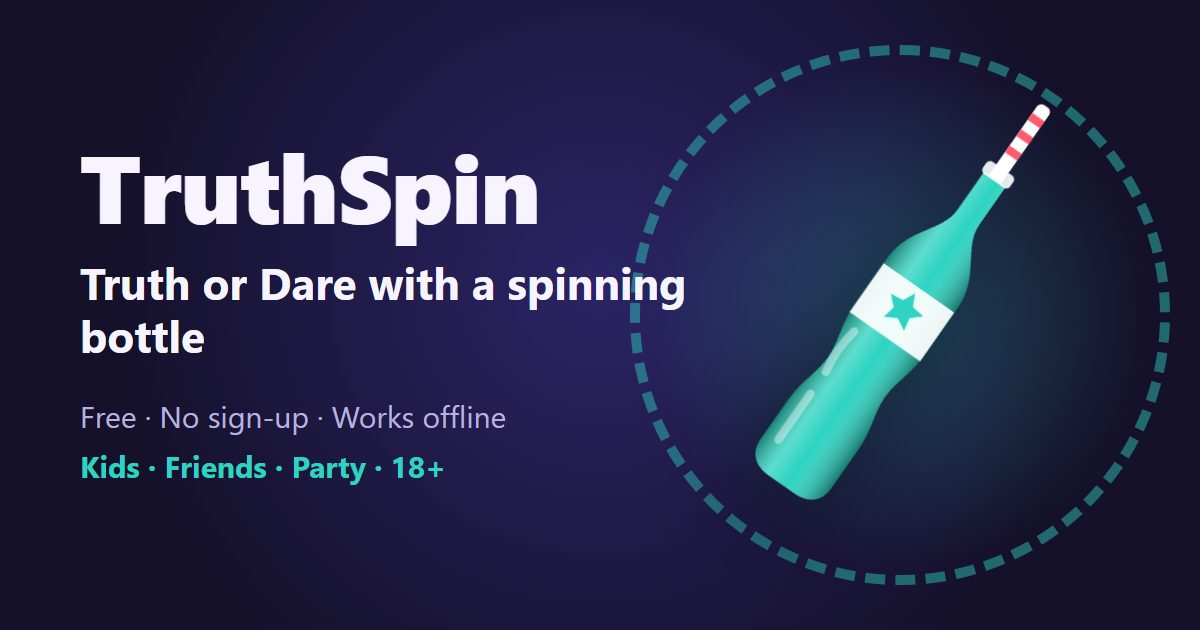
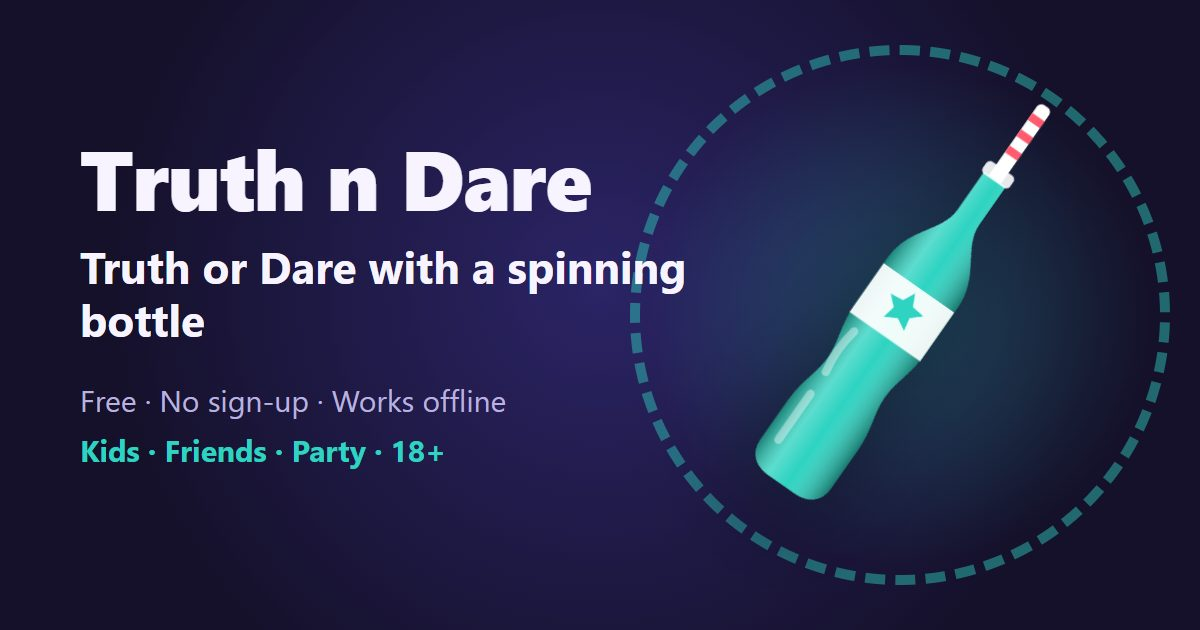
Rename the site from TruthSpin to Truth n Dare
The name now matches the address truthndare.in: tab title, Google site
name and preview image, phone app name, game text in English and
Hinglish, question pages, privacy and admin pages. Hidden storage ids
stay "truthspin" so saved data and backups keep working.

Changed region(s): [[0.0617, 0.2413, 0.5858, 0.573], [0.0617, 0.6032, 0.4317, 0.7841]]

diff --git a/src/strings.js b/src/strings.js
@@ -30,8 +30,8 @@ const en = {
   pickedName: '{name} was picked',
   switchedToFriends: 'The level is now Friends (13+).',
   loadFailed: 'Could not load the questions. Check your internet and try again.',
-  tipInstall: 'Add TruthSpin to your home screen to play offline',
-  tipFeedback: 'Enjoying TruthSpin? Tell us what to add',
+  tipInstall: 'Add Truth n Dare to your home screen to play offline',
+  tipFeedback: 'Enjoying Truth n Dare? Tell us what to add',
 
   // Card
   done: 'Done',
@@ -184,7 +184,7 @@ const en = {
   invite: 'Invite friends on WhatsApp',
   installApp: 'Get the app (phone or computer)',
   getAppShort: 'Get app',
-  getAppTitle: 'Get the TruthSpin app: free',
+  getAppTitle: 'Get the Truth n Dare app: free',
   getAppLead: 'Open it straight from your home screen or desktop, full screen. It works offline and takes less than 1 MB. No app store needed.',
   installNow: 'Install now',
   installOn_ios: 'On iPhone or iPad',
@@ -194,16 +194,16 @@ const en = {
   installOn_firefox: 'In Firefox',
   installIos1: 'Tap the Share button (the square with an arrow pointing up).',
   installIos2: 'Scroll down and tap “Add to Home Screen”.',
-  installIos3: 'Tap “Add”. TruthSpin now opens from your home screen like an app.',
+  installIos3: 'Tap “Add”. Truth n Dare now opens from your home screen like an app.',
   installAndroid1: 'Tap the ⋮ menu at the top right of Chrome.',
   installAndroid2: 'Tap “Install app” or “Add to Home screen”, then “Install”.',
   installDesktop1: 'In Chrome or Edge, click the install icon at the right end of the address bar.',
-  installDesktop2: 'Or open the ⋮ menu and choose “Install TruthSpin” (Chrome) or “Apps → Install this site as an app” (Edge).',
+  installDesktop2: 'Or open the ⋮ menu and choose “Install Truth n Dare” (Chrome) or “Apps → Install this site as an app” (Edge).',
   'installMacSafari1': 'In Safari, open the File menu and choose “Add to Dock”.',
   installFirefox1: 'Firefox cannot install apps. Open this page in Chrome or Edge, then install it there.',
   installOther: 'Other devices',
   getAppNote: 'The app updates by itself. You can remove it like any other app.',
-  installedToast: 'Installed! Open TruthSpin from your home screen or desktop.',
+  installedToast: 'Installed! Open Truth n Dare from your home screen or desktop.',
   resetSeen: 'Reset seen questions',
   resetTitle: 'Start all questions fresh?',
   resetLead: 'Cards you have already seen can come up again.',
@@ -230,7 +230,7 @@ const en = {
   iosTitle: 'Add to Home Screen',
   ios1: 'Tap the Share button in Safari.',
   ios2: 'Choose “Add to Home Screen”.',
-  ios3: 'Open TruthSpin from your home screen. It works offline too.',
+  ios3: 'Open Truth n Dare from your home screen. It works offline too.',
 
   // Own questions
   addQuestion: 'Add your own question',
@@ -267,7 +267,7 @@ const en = {
   restorePaste: 'Paste your backup code here',
   restoreLead: 'Paste a backup code or choose a backup file.',
   chooseFile: 'Choose file',
-  restoreBad: 'That does not look like a TruthSpin backup.',
+  restoreBad: 'That does not look like a Truth n Dare backup.',
   restored: '{n} questions added.',
   shareOwnMsg: 'Here are {n} questions for our Truth or Dare game. Open to add them: {url}',
   importNone: 'These questions are for levels that are hidden on this phone.',
@@ -276,7 +276,7 @@ const en = {
   importAdd: 'Add {n} questions',
 
   // Feedback and reports
-  fbLead: 'How do you like TruthSpin? Tell us what to add or fix.',
+  fbLead: 'How do you like Truth n Dare? Tell us what to add or fix.',
   fbMood: 'Your rating',
   mood1: 'Not good',
   mood2: 'Okay',
@@ -339,8 +339,8 @@ const hi = {
   pickedName: '{name} ki baari',
   switchedToFriends: 'Level ab Friends (13+) hai.',
   loadFailed: 'Sawaal load nahi hue. Internet check karke phir try kariye.',
-  tipInstall: 'TruthSpin ko home screen par lagaiye, offline bhi chalega',
-  tipFeedback: 'TruthSpin pasand aa raha hai? Batayiye kya add karein',
+  tipInstall: 'Truth n Dare ko home screen par lagaiye, offline bhi chalega',
+  tipFeedback: 'Truth n Dare pasand aa raha hai? Batayiye kya add karein',
 
   done: 'Ho gaya',
   skip: 'Skip',
@@ -466,7 +466,7 @@ const hi = {
   invite: 'WhatsApp par dosto ko bulaiye',
   installApp: 'App lijiye (phone ya computer)',
   getAppShort: 'App lo',
-  getAppTitle: 'TruthSpin app lijiye: free',
+  getAppTitle: 'Truth n Dare app lijiye: free',
   getAppLead: 'Seedha home screen ya desktop se full screen kholiye. Offline bhi chalta hai aur 1 MB se kam jagah leta hai. App store ki zaroorat nahi.',
   installNow: 'Abhi install kariye',
   installOn_ios: 'iPhone ya iPad par',
@@ -476,16 +476,16 @@ const hi = {
   installOn_firefox: 'Firefox mein',
   installIos1: 'Share button dabaiye (upar teer wala square).',
   installIos2: 'Neeche scroll karke “Add to Home Screen” dabaiye.',
-  installIos3: '“Add” dabaiye. Ab TruthSpin home screen se app ki tarah khulega.',
+  installIos3: '“Add” dabaiye. Ab Truth n Dare home screen se app ki tarah khulega.',
   installAndroid1: 'Chrome mein upar daayein ⋮ menu dabaiye.',
   installAndroid2: '“Install app” ya “Add to Home screen” dabaiye, phir “Install”.',
   installDesktop1: 'Chrome ya Edge mein address bar ke daayein kone par install icon dabaiye.',
-  installDesktop2: 'Ya ⋮ menu kholkar “Install TruthSpin” (Chrome) ya “Apps → Install this site as an app” (Edge) chuniye.',
+  installDesktop2: 'Ya ⋮ menu kholkar “Install Truth n Dare” (Chrome) ya “Apps → Install this site as an app” (Edge) chuniye.',
   'installMacSafari1': 'Safari mein File menu kholkar “Add to Dock” chuniye.',
   installFirefox1: 'Firefox apps install nahi kar sakta. Yeh page Chrome ya Edge mein kholkar wahan install kariye.',
   installOther: 'Doosre devices',
   getAppNote: 'App apne aap update hota hai. Ise kisi bhi app ki tarah hata sakte hain.',
-  installedToast: 'Install ho gaya! TruthSpin ko home screen ya desktop se kholiye.',
+  installedToast: 'Install ho gaya! Truth n Dare ko home screen ya desktop se kholiye.',
   resetSeen: 'Dekhe hue sawaal reset',
   resetTitle: 'Saare sawaal phir se shuru karein?',
   resetLead: 'Pehle dekhe hue cards phir se aa sakte hain.',
@@ -507,7 +507,7 @@ const hi = {
   iosTitle: 'Home Screen par lagaiye',
   ios1: 'Safari mein Share button dabaiye.',
   ios2: '“Add to Home Screen” chuniye.',
-  ios3: 'Home screen se TruthSpin kholiye. Offline bhi chalega.',
+  ios3: 'Home screen se Truth n Dare kholiye. Offline bhi chalega.',
 
   addQuestion: 'Apna sawaal jodiye',
   editQuestion: 'Sawaal badliye',
@@ -539,7 +539,7 @@ const hi = {
   restorePaste: 'Backup code yahan paste kariye',
   restoreLead: 'Backup code paste kariye ya backup file chuniye.',
   chooseFile: 'File chuniye',
-  restoreBad: 'Yeh TruthSpin backup nahi lag raha.',
+  restoreBad: 'Yeh Truth n Dare backup nahi lag raha.',
   restored: '{n} sawaal jud gaye.',
   shareOwnMsg: 'Hamare Truth or Dare game ke liye {n} sawaal. Jodne ke liye kholiye: {url}',
   importNone: 'Yeh sawaal un levels ke hain jo is phone par chhupe hain.',
@@ -547,7 +547,7 @@ const hi = {
   importLead: 'Jodne se pehle dekh lijiye. Yeh sirf is phone par save honge.',
   importAdd: '{n} sawaal jodiye',
 
-  fbLead: 'TruthSpin kaisa laga? Batayiye kya add ya theek karein.',
+  fbLead: 'Truth n Dare kaisa laga? Batayiye kya add ya theek karein.',
   fbMood: 'Aapki rating',
   mood1: 'Achha nahi',
   mood2: 'Theek hai',

diff --git a/index.html b/index.html
@@ -3,7 +3,7 @@
 <head>
   <meta charset="utf-8">
   <meta name="viewport" content="width=device-width, initial-scale=1, viewport-fit=cover, interactive-widget=resizes-content">
-  <title>Truth and Dare Game Online with Spin the Bottle | TruthSpin</title>
+  <title>Truth and Dare Game Online with Spin the Bottle | Truth n Dare</title>
   <meta name="description" content="Play truth and dare free online with a spinning bottle. 800+ questions for friends, family, couples and parties, in English and Hinglish. No sign-up, works offline.">
   <meta name="author" content="Rohit Singh">
   <meta name="theme-color" content="#15112b">
@@ -14,8 +14,8 @@
   <link rel="icon" href="/favicon-48.png" sizes="48x48" type="image/png">
   <link rel="apple-touch-icon" href="/apple-touch-icon.png">
   <meta property="og:type" content="website">
-  <meta property="og:site_name" content="TruthSpin">
-  <meta property="og:title" content="TruthSpin: Truth and Dare with a spinning bottle">
+  <meta property="og:site_name" content="Truth n Dare">
+  <meta property="og:title" content="Truth n Dare: free truth or dare with a spinning bottle">
   <meta property="og:description" content="Spin the bottle, pick truth or dare. Free, no sign-up, works offline.">
   <meta property="og:url" content="%VITE_SITE_URL%/">
   <meta property="og:image" content="%VITE_SITE_URL%/og.jpg">
@@ -23,12 +23,12 @@
   <meta property="og:image:height" content="630">
   <meta name="twitter:card" content="summary_large_image">
   <meta name="mobile-web-app-capable" content="yes">
-  <meta name="apple-mobile-web-app-title" content="TruthSpin">
+  <meta name="apple-mobile-web-app-title" content="Truth n Dare">
   <script type="application/ld+json">
-  {"@context":"https://schema.org","@type":"WebApplication","name":"TruthSpin","alternateName":["Truth and Dare","Truth or Dare: Spin the Bottle"],"url":"%VITE_SITE_URL%/","applicationCategory":"GameApplication","operatingSystem":"Any","offers":{"@type":"Offer","price":"0","priceCurrency":"INR"},"inLanguage":["en","hi-Latn"],"author":{"@type":"Person","name":"Rohit Singh"},"description":"Truth and dare with a spinning bottle. Free, no sign-up, works offline."}
+  {"@context":"https://schema.org","@type":"WebApplication","name":"Truth n Dare","alternateName":["truthndare.in","Truth and Dare","Truth or Dare: Spin the Bottle"],"url":"%VITE_SITE_URL%/","applicationCategory":"GameApplication","operatingSystem":"Any","offers":{"@type":"Offer","price":"0","priceCurrency":"INR"},"inLanguage":["en","hi-Latn"],"author":{"@type":"Person","name":"Rohit Singh"},"description":"Truth and dare with a spinning bottle. Free, no sign-up, works offline."}
   </script>
   <script type="application/ld+json">
-  {"@context":"https://schema.org","@type":"WebSite","name":"TruthSpin","alternateName":["Truth n Dare","Truth and Dare"],"url":"%VITE_SITE_URL%/"}
+  {"@context":"https://schema.org","@type":"WebSite","name":"Truth n Dare","alternateName":["truthndare.in","TruthnDare","Truth and Dare"],"url":"%VITE_SITE_URL%/"}
   </script>
 </head>
 <body data-phase="idle">
@@ -195,7 +195,7 @@
     </div>
   </dialog>
 
-  <noscript><p class="noscript">TruthSpin needs JavaScript to spin the bottle. Please turn it on in your browser.</p></noscript>
+  <noscript><p class="noscript">Truth n Dare needs JavaScript to spin the bottle. Please turn it on in your browser.</p></noscript>
   <script type="module" src="/src/main.js"></script>
 </body>
 </html>

diff --git a/privacy.html b/privacy.html
@@ -3,8 +3,8 @@
 <head>
   <meta charset="utf-8">
   <meta name="viewport" content="width=device-width, initial-scale=1">
-  <title>Privacy · TruthSpin</title>
-  <meta name="description" content="TruthSpin privacy: no account, no ads, nothing personal collected.">
+  <title>Privacy · Truth n Dare</title>
+  <meta name="description" content="Truth n Dare privacy: no account, no ads, nothing personal collected.">
   <meta name="theme-color" content="#15112b">
   <link rel="icon" href="/favicon.svg" type="image/svg+xml">
   <style>
@@ -23,10 +23,10 @@
 <body>
   <main>
     <a class="back" href="/">← Back to the game</a>
-    <h1>Privacy at TruthSpin</h1>
+    <h1>Privacy at Truth n Dare</h1>
     <p class="muted">Last updated: 21 October 2026</p>
 
-    <p>TruthSpin is a free Truth or Dare game. You can play without an account, and we never ask for your name, email, phone number or birth date. There are no ads and no tracking cookies.</p>
+    <p>Truth n Dare is a free Truth or Dare game. You can play without an account, and we never ask for your name, email, phone number or birth date. There are no ads and no tracking cookies.</p>
 
     <h2>What stays on your phone</h2>
     <p>These are saved only in your browser on this phone, and never sent to us:</p>
@@ -59,7 +59,7 @@
 
     <h2>Contact</h2>
     <p>Have a question, an idea or a privacy concern? Write to us at <a href="mailto:codewithrohitsingh@gmail.com">codewithrohitsingh@gmail.com</a>. We read every message.</p>
-    <p class="muted">TruthSpin is developed by Rohit Singh.</p>
+    <p class="muted">Truth n Dare is developed by Rohit Singh.</p>
     <p class="muted">Question lists: <a href="/truth-and-dare-questions/">Truth and dare questions</a> · <a href="/truth-and-dare-questions-for-friends/">For friends</a> · <a href="/truth-and-dare-questions-for-couples/">For couples</a> · <a href="/truth-and-dare-for-kids/">For kids</a> · <a href="/truth-and-dare-questions-in-hindi/">In Hindi</a> · <a href="/spin-the-bottle-game/">Spin the bottle</a> · <a href="/never-have-i-ever-questions/">Never have I ever</a> · <a href="/would-you-rather-questions/">Would you rather</a></p>
   </main>
 </body>

diff --git a/server/admin.js b/server/admin.js
@@ -49,7 +49,7 @@ const HEADERS = {
 function page(title, active, body) {
   const tab = (href, label) => `<a href="${href}"${active === href ? ' class="on"' : ''}>${label}</a>`;
   return new Response(`<!doctype html><html lang="en"><head><meta charset="utf-8">
-<meta name="viewport" content="width=device-width, initial-scale=1"><title>${esc(title)} · TruthSpin admin</title>
+<meta name="viewport" content="width=device-width, initial-scale=1"><title>${esc(title)} · Truth n Dare admin</title>
 <style>
 body{margin:0;font:16px/1.5 system-ui,sans-serif;background:#f6f3ff;color:#1b1638}
 main{max-width:900px;margin:0 auto;padding:16px}
@@ -246,7 +246,7 @@ async function cleanUp(store, now) {
 export async function handleAdmin(request, { store, env = {}, loadCards, now = new Date() }) {
   if (!env.ADMIN_PASSWORD) return new Response('Set ADMIN_PASSWORD in Netlify (Site configuration > Environment variables) first.', { status: 503 });
   if (!authorised(request, env.ADMIN_PASSWORD, env.ADMIN_USER)) {
-    return new Response('Password needed', { status: 401, headers: { 'www-authenticate': 'Basic realm="TruthSpin admin", charset="UTF-8"', 'cache-control': 'no-store' } });
+    return new Response('Password needed', { status: 401, headers: { 'www-authenticate': 'Basic realm="Truth n Dare admin", charset="UTF-8"', 'cache-control': 'no-store' } });
   }
   const url = new URL(request.url);
   const path = url.pathname.replace(/^\/admin\/?/, '').replace(/\/$/, '');

diff --git a/src/share.js b/src/share.js
@@ -67,7 +67,7 @@ export async function shareCard(card, levelKey, typeLabel) {
 
     ctx.fillStyle = '#ffffff';
     ctx.font = `800 52px ${font}`;
-    ctx.fillText('TruthSpin', 80, 130);
+    ctx.fillText('Truth n Dare', 80, 130);
     ctx.font = `600 34px ${font}`;
     ctx.fillStyle = lvl.color;
     ctx.fillText(`${t(`level_${levelKey}`)} · ${lvl.age === 'all' ? t('allAges') : lvl.age}`, 80, 185);
@@ -118,7 +118,7 @@ export async function shareCard(card, levelKey, typeLabel) {
     ctx.fillText(location.host, qx + cell * n + 50, qy + 120);
 
     const blob = await new Promise((r) => canvas.toBlob(r, 'image/png'));
-    const file = new File([blob], 'truthspin-card.png', { type: 'image/png' });
+    const file = new File([blob], 'truthndare-card.png', { type: 'image/png' });
     track('share-card');
     if (navigator.canShare?.({ files: [file] })) {
       await navigator.share({ files: [file], text: `${t('shareCardText')} ${link}` });

diff --git a/src/sheets.js b/src/sheets.js
@@ -229,7 +229,7 @@ export function settingsSheet(app) {
           h('a', { class: 'btn', href: '/privacy.html' }, icon('lock'), t('privacy')),
         ),
       ),
-      h('p', { class: 'fine center credit' }, `TruthSpin ${CONFIG.version} · ${t('developedBy')}`),
+      h('p', { class: 'fine center credit' }, `Truth n Dare ${CONFIG.version} · ${t('developedBy')}`),
     );
   };
   render();
@@ -253,7 +253,7 @@ export function aboutSheet() {
     h('h3', {}, t('contactTitle')),
     h('p', {}, t('contactText'), ' ', h('a', { href: `mailto:${CONFIG.contactEmail}` }, CONFIG.contactEmail)),
     h('p', {}, h('a', { href: '/privacy.html' }, t('privacy'))),
-    h('p', { class: 'fine center credit' }, `TruthSpin ${CONFIG.version} · ${t('developedBy')}`),
+    h('p', { class: 'fine center credit' }, `Truth n Dare ${CONFIG.version} · ${t('developedBy')}`),
   ]);
 }
 

diff --git a/src/custom.js b/src/custom.js
@@ -184,7 +184,7 @@ function backupSheet() {
       h('button', {
         class: 'btn', type: 'button',
         onclick: () => {
-          const a = h('a', { href: URL.createObjectURL(new Blob([code.value], { type: 'application/json' })), download: 'truthspin-questions.json' });
+          const a = h('a', { href: URL.createObjectURL(new Blob([code.value], { type: 'application/json' })), download: 'truthndare-questions.json' });
           a.click();
           setTimeout(() => URL.revokeObjectURL(a.href), 5000);
         },

diff --git a/tests/e2e/game.spec.js b/tests/e2e/game.spec.js
@@ -404,7 +404,7 @@ test('Get app button opens install help, and is hidden inside the installed app'
   await page.goto('/');
   await expect(page.locator('#getAppBtn')).toBeVisible();
   await page.locator('#getAppBtn').click();
-  await expect(page.getByRole('dialog', { name: 'Get the TruthSpin app: free' })).toBeVisible();
+  await expect(page.getByRole('dialog', { name: 'Get the Truth n Dare app: free' })).toBeVisible();
   await expect(page.getByText('Other devices')).toBeVisible();
   await shot(page, '16-get-app');
 });

diff --git a/vite.config.js b/vite.config.js
@@ -22,8 +22,8 @@ export default defineConfig({
       includeAssets: ['favicon.svg', 'apple-touch-icon.png'],
       manifest: {
         id: '/',
-        name: 'TruthSpin: Truth or Dare',
-        short_name: 'TruthSpin',
+        name: 'Truth n Dare',
+        short_name: 'Truth n Dare',
         description: 'Truth and dare with a spinning bottle. Free, no sign-up, works offline.',
         start_url: '/?ref=app',
         scope: '/',

diff --git a/src/config.js b/src/config.js
@@ -2,7 +2,7 @@
 // feature off, so the game still works without them.
 
 export const CONFIG = {
-  // GoatCounter site code, e.g. 'truthspin' for https://truthspin.goatcounter.com
+  // GoatCounter site code, e.g. 'truthndare' for https://truthndare.goatcounter.com
   goatcounter: '',
   // Optional Cloudflare Turnstile site key (public). Empty: no spam check, which is fine to start with.
   turnstileSiteKey: '',

diff --git a/src/app.css b/src/app.css
@@ -1,4 +1,4 @@
-/* TruthSpin. Phone first: big text the whole circle can read, main buttons low and central,
+/* Truth n Dare. Phone first: big text the whole circle can read, main buttons low and central,
    every screen from a 280 px foldable cover to a tablet, upright or sideways. */
 
 :root {

diff --git a/src/main.js b/src/main.js
@@ -1,4 +1,4 @@
-// TruthSpin: open, spin, Truth or Dare. Two taps to the first question.
+// Truth n Dare: open, spin, Truth or Dare. Two taps to the first question.
 
 import './app.css';
 import { load, save } from './store.js';
